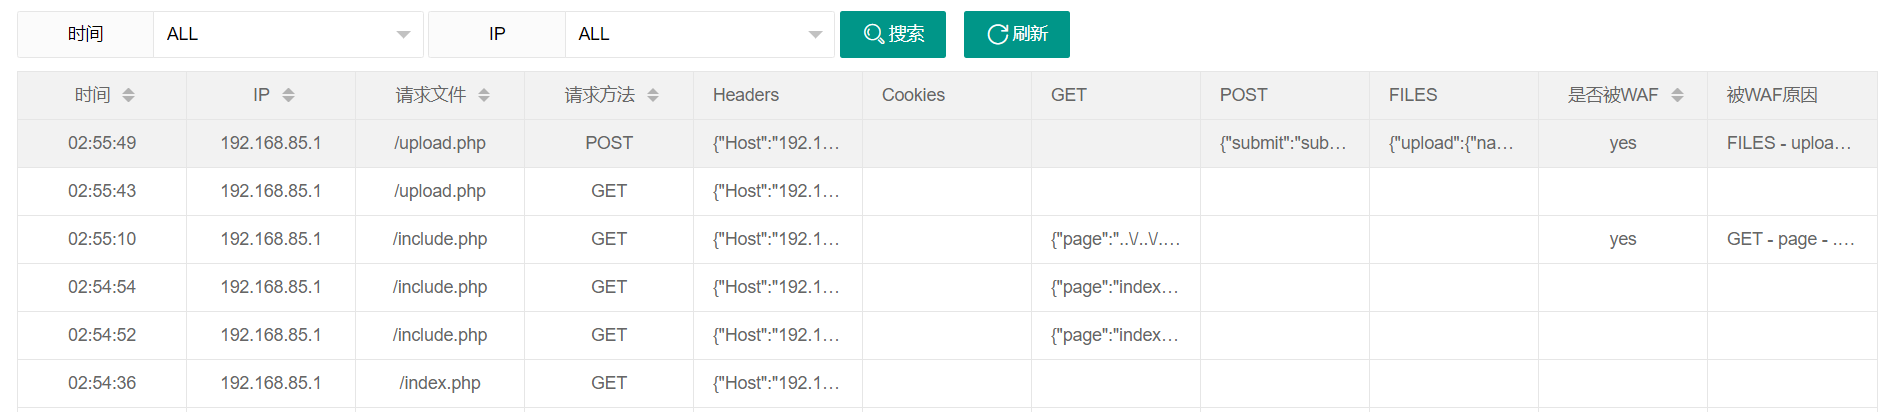
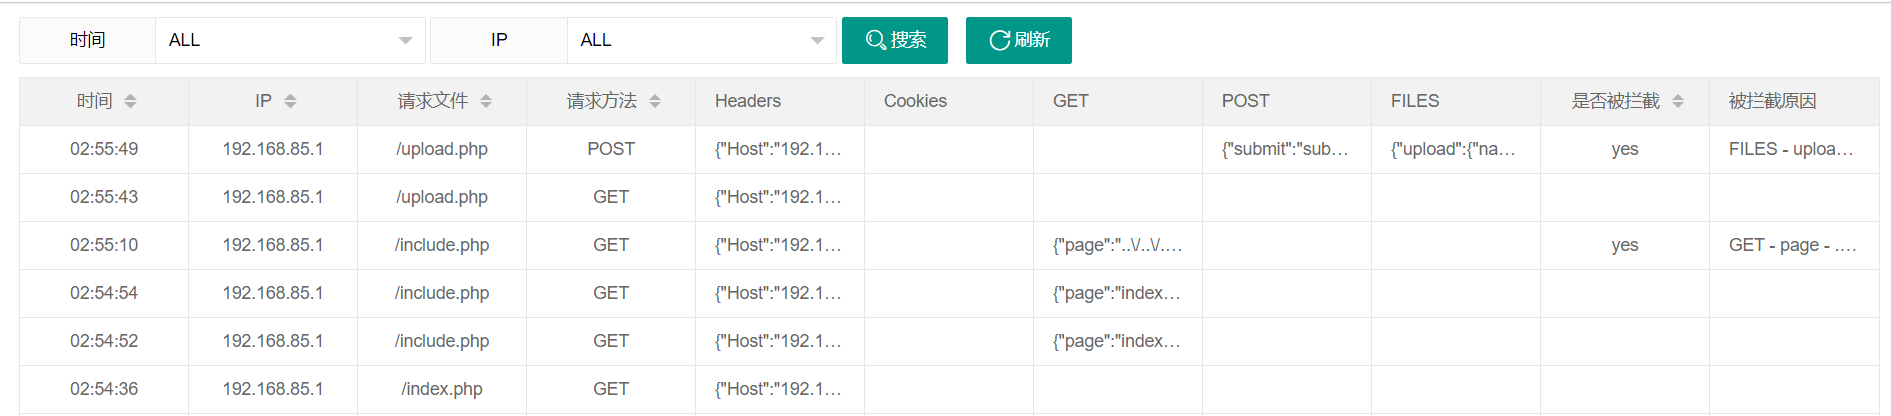
upload readme's pics

diff --git a/readme.md b/readme.md
@@ -46,11 +46,28 @@ $ find . -path ./waffffff -prune -o -type f -name "*.php" -print | xargs sed -i 
 ```
 ## 流量查看
 
+流量查看界面采用 layui 前端组件编写而成。
+
 访问 web 目录下的 waffffff/admin.php?password+密码 。
 
 ![admin](./pic/admin.png)
 
+headers、cookies、GET、POST、FILES 可点击查看更详细美观的表格形式数据。被拦截原因也可点击弹窗查看数据。
+
+![admin](./pic/get.png)
+
 # 测试
 
-目录遍历漏洞中， ../../../etc
-上传
+上传图片马被拦截：
+
+![admin](./pic/test.png)
+
+查看流量具体信息：
+
+![admin](./pic/headers.png)
+
+![admin](./pic/files.png)
+
+被拦截细则：
+
+![admin](./pic/result.png)
